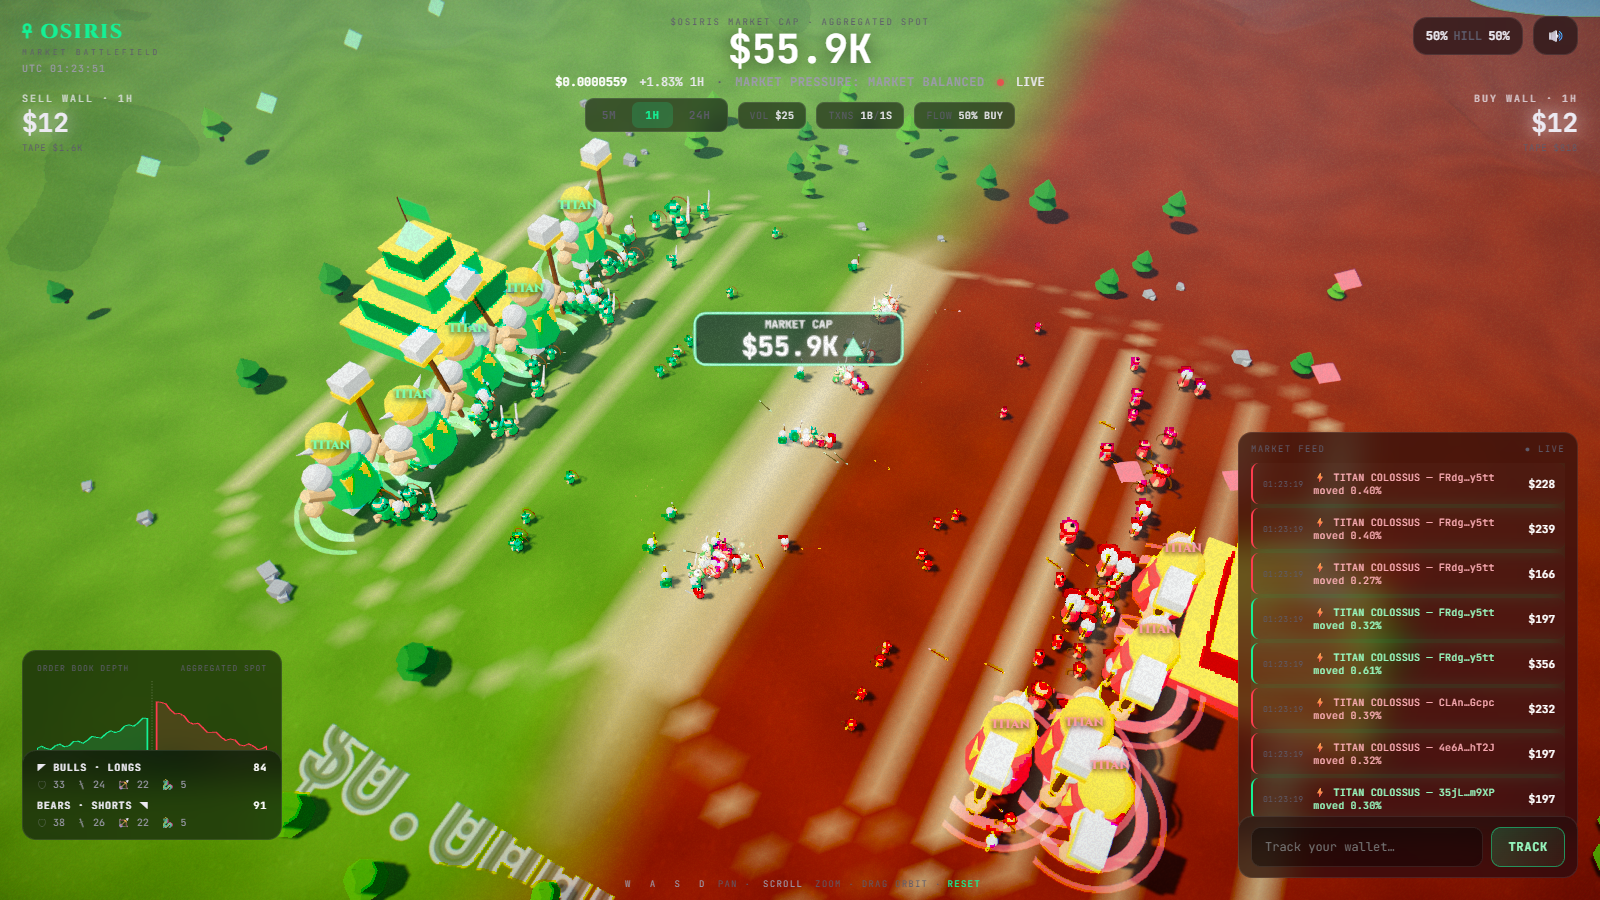
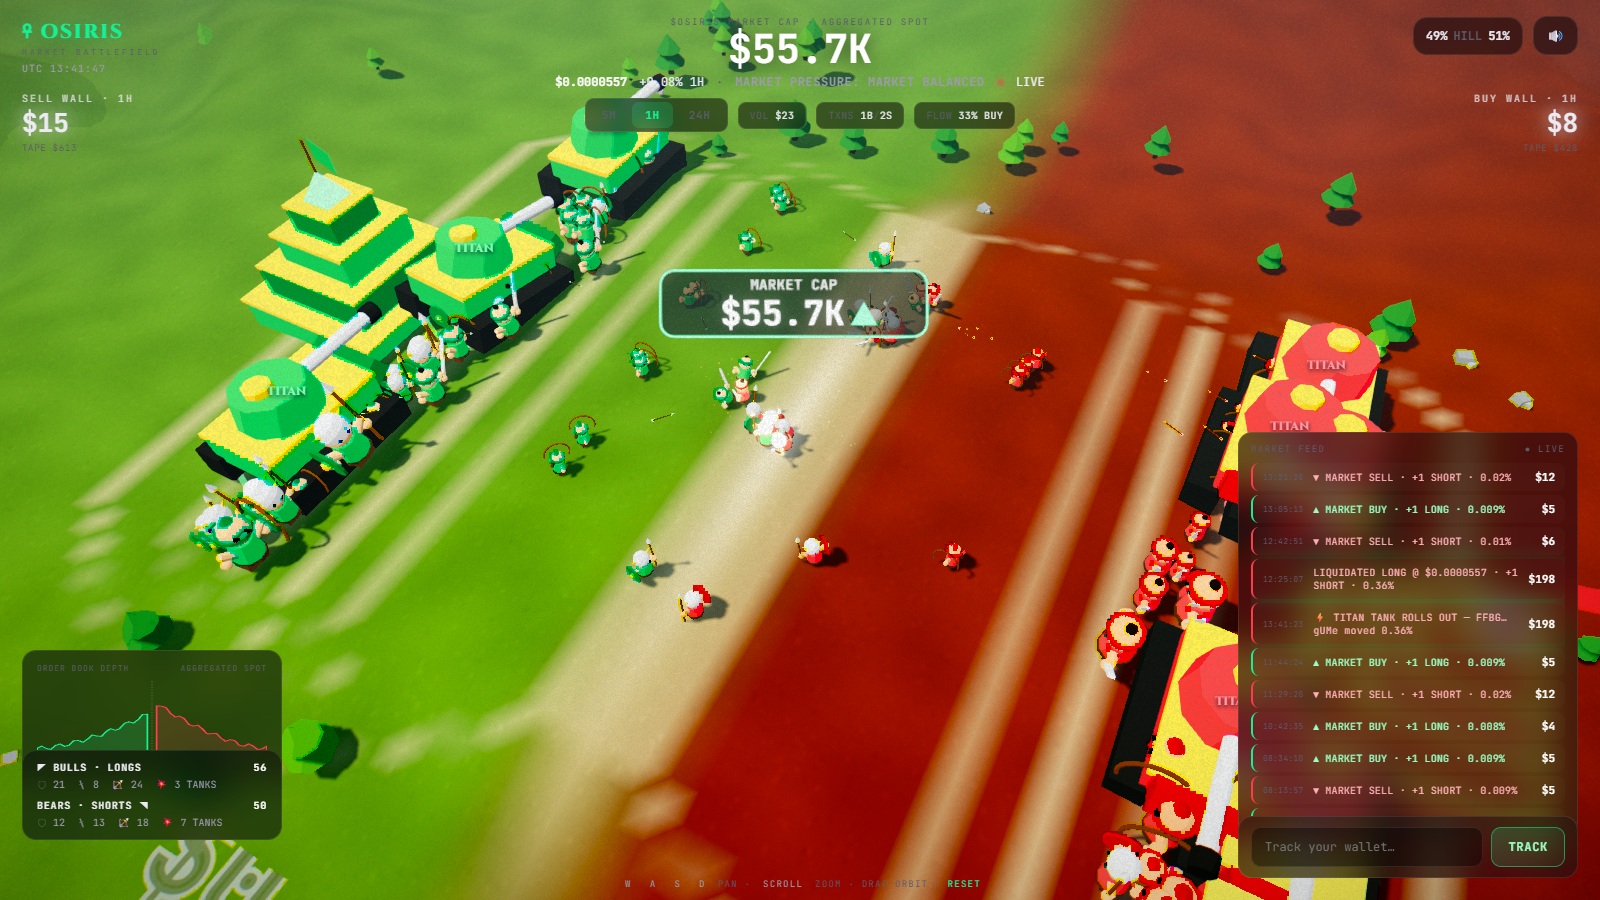
Bigger-scale war: tanks for whales, ranged firefights, persistent casualties, closer camera
- Whale (TITAN/GOD) units are now toon TANKS: hull/treads/turret/barrel, firing
  arcing SHELLS with muzzle flash, explosion bursts, scorch decals, splash damage
  (up to 5 units), and screenshake
- Units ~65% larger (UNIT_SCALE 1.15→1.9) with fewer of them (garrison halved,
  reinforcement cap lowered) — big readable toy-army fighting instead of ant swarms
- Ranged-heavy class mix (~46% archers): the war reads as volleys traded across
  the road with melee charges punching through
- Casualties persist: units fall over, lie on the field ~8s, then fade away
- Closer default camera (lower pitch, 0.8 zoom); TANK naming in feed + force panels

Claude-Session: https://claude.ai/code/session_015tQMzkiqweDMCFznisx5mN

diff --git a/src/lib/battle/engine.ts b/src/lib/battle/engine.ts
@@ -47,7 +47,7 @@ type Unit = {
 };
 
 // per-class attack pacing (seconds between strikes)
-const ATK_CD: Record<Cls, number> = { spear: 1.05, ronin: 0.62, archer: 1.4, colossus: 2.0 };
+const ATK_CD: Record<Cls, number> = { spear: 1.05, ronin: 0.62, archer: 1.4, colossus: 2.8 };
 const KILL_TEMPO = 2.3; // global lethality multiplier (per-hit = dmg * cd * tempo)
 const ACQUIRE_R = 14; // how far a melee unit will lock onto an enemy
 
@@ -57,14 +57,14 @@ const CAP = FRONT_MAX + 16;
 const ARENA_Z = 26;
 const MELEE = 4.2;
 const SPEED = 11;
-const UNIT_SCALE = 1.15;
+const UNIT_SCALE = 1.9;
 const CLASSES: Cls[] = ['spear', 'ronin', 'archer', 'colossus'];
 
 const CLASS_STATS: Record<Cls, { hpMul: number; dmgMul: number; scaleMul: number; ranged: boolean; standoff: number; speedMul: number }> = {
 	spear: { hpMul: 1.0, dmgMul: 1.0, scaleMul: 1.0, ranged: false, standoff: 0.8, speedMul: 1.0 },
 	ronin: { hpMul: 0.78, dmgMul: 1.9, scaleMul: 0.95, ranged: false, standoff: 0.6, speedMul: 1.4 },
-	archer: { hpMul: 0.55, dmgMul: 1.7, scaleMul: 0.9, ranged: true, standoff: 15, speedMul: 1.05 },
-	colossus: { hpMul: 1.5, dmgMul: 1.4, scaleMul: 1.35, ranged: false, standoff: 0.9, speedMul: 0.8 }
+	archer: { hpMul: 0.55, dmgMul: 1.7, scaleMul: 0.9, ranged: true, standoff: 13, speedMul: 1.05 },
+	colossus: { hpMul: 2.4, dmgMul: 2.4, scaleMul: 1.0, ranged: true, standoff: 10, speedMul: 0.6 }
 };
 
 const GOLD = new THREE.Color('#2fd66b');
@@ -82,8 +82,9 @@ function hash01(s: string): number {
 }
 function pickClass(tier: string, seed: number): Cls {
 	if (tier === 'TITAN' || tier === 'GOD') return 'colossus';
-	if (seed < 0.42) return 'spear';
-	if (seed < 0.70) return 'archer';
+	// ranged-heavy mix: most of the war is volleys traded across the line
+	if (seed < 0.3) return 'spear';
+	if (seed < 0.76) return 'archer';
 	return 'ronin';
 }
 function easeOutBack(t: number): number { const c = 1.70158, c3 = c + 1; return 1 + c3 * Math.pow(t - 1, 3) + c * Math.pow(t - 1, 2); }
@@ -190,31 +191,27 @@ function buildArcher(p: Palette): THREE.BufferGeometry {
 }
 
 function buildColossus(p: Palette): THREE.BufferGeometry {
+	// WHALE ARMOR: a chunky toon tank — hull, treads, turret, barrel
 	const parts: THREE.BufferGeometry[] = [];
-	// giant boots + legs
-	const b1 = paint(new THREE.BoxGeometry(0.4, 0.32, 0.5), p.metal); b1.translate(-0.28, 0.16, 0.02);
-	const b2 = paint(new THREE.BoxGeometry(0.4, 0.32, 0.5), p.metal); b2.translate(0.28, 0.16, 0.02);
-	// massive torso
-	const body = paint(new THREE.CylinderGeometry(0.52, 0.66, 1.1, 10), p.cloth); body.translate(0, 0.95, 0);
-	const plate = paint(new THREE.BoxGeometry(0.72, 0.55, 0.2), p.accent); plate.translate(0, 1.1, 0.42);
-	// huge pauldrons
-	const s1 = paint(new THREE.SphereGeometry(0.34, 10, 8), p.metal); s1.translate(-0.62, 1.5, 0);
-	const s2 = paint(new THREE.SphereGeometry(0.34, 10, 8), p.metal); s2.translate(0.62, 1.5, 0);
-	// arms + fists
-	const aR = paint(new THREE.CylinderGeometry(0.16, 0.19, 0.7, 8), p.skin); aR.rotateZ(-0.85); aR.translate(0.85, 1.15, 0.06);
-	const fR = paint(new THREE.SphereGeometry(0.22, 8, 6), p.skin); fR.translate(1.1, 0.92, 0.1);
-	const aL = paint(new THREE.CylinderGeometry(0.16, 0.19, 0.7, 8), p.skin); aL.rotateZ(0.85); aL.translate(-0.85, 1.15, 0.06);
-	const fL = paint(new THREE.SphereGeometry(0.22, 8, 6), p.skin); fL.translate(-1.1, 0.92, 0.1);
-	// big head + horned crown helm
-	const head = paint(new THREE.SphereGeometry(0.46, 12, 10), p.skin); head.translate(0, 2.0, 0.02);
-	const helm = paint(new THREE.SphereGeometry(0.5, 12, 8, 0, Math.PI * 2, 0, Math.PI * 0.5), p.accent); helm.translate(0, 2.12, 0.02);
-	const h1 = paint(new THREE.ConeGeometry(0.12, 0.55, 6), p.metal); h1.rotateZ(1.05); h1.translate(-0.55, 2.35, 0.02);
-	const h2 = paint(new THREE.ConeGeometry(0.12, 0.55, 6), p.metal); h2.rotateZ(-1.05); h2.translate(0.55, 2.35, 0.02);
-	// colossal warhammer
-	const haft = paint(new THREE.CylinderGeometry(0.07, 0.07, 2.9, 8), p.wood); haft.translate(1.1, 1.8, 0.1);
-	const hh = paint(new THREE.BoxGeometry(0.72, 0.5, 0.5), p.metal); hh.translate(1.1, 3.2, 0.1);
-	const hb = paint(new THREE.BoxGeometry(0.78, 0.14, 0.56), p.accent); hb.translate(1.1, 3.0, 0.1);
-	parts.push(b1, b2, body, plate, s1, s2, aR, fR, aL, fL, head, helm, h1, h2, haft, hh, hb);
+	// treads
+	const t1 = paint(new THREE.BoxGeometry(2.5, 0.55, 0.55), '#2c2c28'); t1.translate(0, 0.32, -0.85);
+	const t2 = paint(new THREE.BoxGeometry(2.5, 0.55, 0.55), '#2c2c28'); t2.translate(0, 0.32, 0.85);
+	// wheels hint
+	for (let i = -2; i <= 2; i++) {
+		const w1 = paint(new THREE.CylinderGeometry(0.22, 0.22, 0.12, 8), '#4a4a42'); w1.rotateX(Math.PI / 2); w1.translate(i * 0.5, 0.3, -0.85);
+		const w2 = paint(new THREE.CylinderGeometry(0.22, 0.22, 0.12, 8), '#4a4a42'); w2.rotateX(Math.PI / 2); w2.translate(i * 0.5, 0.3, 0.85);
+		parts.push(w1, w2);
+	}
+	// hull
+	const hull = paint(new THREE.BoxGeometry(2.3, 0.62, 1.5), p.cloth); hull.translate(0, 0.78, 0);
+	const glacis = paint(new THREE.BoxGeometry(0.7, 0.4, 1.3), p.clothDark); glacis.rotateZ(0.5); glacis.translate(1.15, 0.85, 0);
+	const trim = paint(new THREE.BoxGeometry(2.35, 0.1, 1.55), p.accent); trim.translate(0, 1.06, 0);
+	// turret + barrel (points +x)
+	const turret = paint(new THREE.CylinderGeometry(0.62, 0.72, 0.55, 10), p.cloth); turret.translate(-0.15, 1.4, 0);
+	const hatch = paint(new THREE.CylinderGeometry(0.24, 0.24, 0.14, 8), p.accent); hatch.translate(-0.3, 1.72, 0);
+	const barrel = paint(new THREE.CylinderGeometry(0.11, 0.13, 1.9, 8), p.metal); barrel.rotateZ(Math.PI / 2); barrel.translate(1.15, 1.42, 0);
+	const muzzle = paint(new THREE.CylinderGeometry(0.17, 0.17, 0.25, 8), '#2c2c28'); muzzle.rotateZ(Math.PI / 2); muzzle.translate(2.05, 1.42, 0);
+	parts.push(t1, t2, hull, glacis, trim, turret, hatch, barrel, muzzle);
 	const m = mergeGeometries(parts, false)!; m.computeVertexNormals(); return m;
 }
 
@@ -263,6 +260,10 @@ export class Battle {
 	private PROJ = 320;
 	private proj!: { active: boolean; x: number; y: number; z: number; vx: number; vy: number; vz: number; dmg: number; team: Team; life: number }[];
 	private projHead = 0;
+	private shellMesh!: THREE.InstancedMesh;
+	private SHELL_N = 90;
+	private shells!: { active: boolean; x: number; y: number; z: number; vx: number; vy: number; vz: number; dmg: number; team: Team; life: number }[];
+	private shellHead = 0;
 
 	private raf = 0; private last = 0; private time = 0;
 	private focus = false; private trackWallet: string | null = null;
@@ -276,7 +277,7 @@ export class Battle {
 	private totalKills = 0; private biggestWhaleUsd = 0; private biggestWhaleWallet = '';
 	private lastGarrison = { bulls: 60, bears: 60 };
 
-	private camYaw = 0.5; private camPitch = 0.62; private camZoom = 1;
+	private camYaw = 0.5; private camPitch = 0.52; private camZoom = 0.8;
 	private panX = 0; private panZ = 0; private keys = new Set<string>();
 	private manualUntil = 0; private dragging = false; private lastPtr = { x: 0, y: 0 };
 
@@ -562,6 +563,15 @@ export class Battle {
 		for (let i = 0; i < this.PROJ; i++) { this.arrowMesh.setMatrixAt(i, this.dummy.matrix); this.arrowMesh.setColorAt(i, this.tmpColor.set(0xffffff)); }
 		this.scene.add(this.arrowMesh);
 		this.proj = Array.from({ length: this.PROJ }, () => ({ active: false, x: 0, y: 0, z: 0, vx: 0, vy: 0, vz: 0, dmg: 0, team: 'bull' as Team, life: 0 }));
+
+		// tank shells — fat dark rounds with a bright tip
+		const shellGeo = paint(new THREE.CapsuleGeometry(0.16, 0.34, 3, 8), '#26221c');
+		this.shellMesh = new THREE.InstancedMesh(shellGeo, new THREE.MeshBasicMaterial({ vertexColors: true }), this.SHELL_N);
+		this.shellMesh.instanceMatrix.setUsage(THREE.DynamicDrawUsage); this.shellMesh.count = this.SHELL_N; this.shellMesh.frustumCulled = false;
+		this.dummy.scale.setScalar(0); this.dummy.updateMatrix();
+		for (let i = 0; i < this.SHELL_N; i++) { this.shellMesh.setMatrixAt(i, this.dummy.matrix); this.shellMesh.setColorAt(i, this.tmpColor.set(0xffffff)); }
+		this.scene.add(this.shellMesh);
+		this.shells = Array.from({ length: this.SHELL_N }, () => ({ active: false, x: 0, y: 0, z: 0, vx: 0, vy: 0, vz: 0, dmg: 0, team: 'bull' as Team, life: 0 }));
 	}
 
 	private buildSparks() {
@@ -645,7 +655,7 @@ export class Battle {
 	setReinforceRates(b: number, s: number) { this.reinB = b; this.reinS = s; }
 	setTrackWallet(w: string | null) { this.trackWallet = w ? w.trim() : null; for (const u of this.units) u.tracked = !!this.trackWallet && u.wallet === this.trackWallet; }
 	setFocus(f: boolean) { this.focus = f; }
-	resetCamera() { this.manualUntil = 0; this.camPitch = 0.62; this.camZoom = 1; this.panX = 0; this.panZ = 0; }
+	resetCamera() { this.manualUntil = 0; this.camPitch = 0.52; this.camZoom = 0.8; this.panX = 0; this.panZ = 0; }
 
 	spawnGarrison(bulls: number, bears: number) {
 		this.lastGarrison = { bulls, bears };
@@ -714,6 +724,53 @@ export class Battle {
 
 	// ---------- projectiles ----------
 
+	private fireShellAt(u: Unit, t: Unit) {
+		const p = this.shells[this.shellHead]; this.shellHead = (this.shellHead + 1) % this.SHELL_N;
+		const sx = u.x, sy = hillY(u.x) + 1.42 * u.scale * UNIT_SCALE * 0.5, sz = u.z;
+		const tx = t.x + (Math.random() - 0.5) * 2, tz = t.z + (Math.random() - 0.5) * 2, ty = hillY(tx) + 0.5;
+		const dist = Math.hypot(tx - sx, tz - sz);
+		const T = THREE.MathUtils.clamp(dist / 34, 0.35, 0.8), g = 14;
+		p.active = true; p.x = sx; p.y = sy; p.z = sz;
+		p.dmg = u.dmg * ATK_CD.colossus * KILL_TEMPO; p.team = u.team; p.life = T + 0.2;
+		p.vx = (tx - sx) / T; p.vz = (tz - sz) / T; p.vy = (ty - sy + 0.5 * g * T * T) / T;
+		// muzzle flash
+		this.spawnBurst(sx + (tx - sx) / dist * 2.2, sy, sz + (tz - sz) / dist * 2.2, new THREE.Color(0xffe9a0), 8);
+		this.shake = Math.min(1.2, this.shake + 0.06);
+	}
+
+	private updateShells(dt: number) {
+		const g = 14; let dirty = false;
+		for (let i = 0; i < this.SHELL_N; i++) {
+			const p = this.shells[i];
+			if (!p.active) continue;
+			p.vy -= g * dt; p.x += p.vx * dt; p.y += p.vy * dt; p.z += p.vz * dt; p.life -= dt;
+			if (p.y <= hillY(p.x) + 0.3 || p.life <= 0) {
+				p.active = false;
+				// EXPLOSION: big flash + splash damage
+				const col = p.team === 'bull' ? GOLD : CRIMSON;
+				this.spawnBurst(p.x, hillY(p.x) + 0.8, p.z, new THREE.Color(0xffd080), 16);
+				this.spawnBurst(p.x, hillY(p.x) + 0.8, p.z, col, 14);
+				this.addDecal(p.x, p.z, 1.5);
+				this.shake = Math.min(1.4, this.shake + 0.18);
+				let hits = 0;
+				for (const e of this.units) {
+					if (e.team === p.team || e.dying > 0 || e.hp <= 0) continue;
+					const dx = e.x - p.x, dz = e.z - p.z, d2 = dx * dx + dz * dz;
+					if (d2 < 3.2 * 3.2) { e.hp -= p.dmg * (d2 < 1.6 ? 1 : 0.55); e.struck = 0.16; if (e.hp <= 0) this.kill(e, []); if (++hits >= 5) break; }
+				}
+				this.dummy.scale.setScalar(0); this.dummy.updateMatrix(); this.shellMesh.setMatrixAt(i, this.dummy.matrix); dirty = true;
+				continue;
+			}
+			this.vTmp.set(p.vx, p.vy, p.vz).normalize();
+			this.q.setFromUnitVectors(this.upV, this.vTmp);
+			this.dummy.position.set(p.x, p.y, p.z); this.dummy.quaternion.copy(this.q); this.dummy.scale.setScalar(1.4); this.dummy.updateMatrix();
+			this.shellMesh.setMatrixAt(i, this.dummy.matrix);
+			this.shellMesh.setColorAt(i, this.tmpColor.copy(p.team === 'bull' ? GOLD : CRIMSON).lerp(new THREE.Color(0xffffff), 0.2));
+			dirty = true;
+		}
+		if (dirty) { this.shellMesh.instanceMatrix.needsUpdate = true; if (this.shellMesh.instanceColor) this.shellMesh.instanceColor.needsUpdate = true; }
+	}
+
 	private fireArrowAt(u: Unit, t: Unit) {
 		const p = this.proj[this.projHead]; this.projHead = (this.projHead + 1) % this.PROJ;
 		const sx = u.x, sy = hillY(u.x) + 1.4 * u.scale * UNIT_SCALE, sz = u.z;
@@ -765,6 +822,7 @@ export class Battle {
 
 		this.step(simDt);
 		this.updateArrows(simDt);
+		this.updateShells(simDt);
 		this.updateParticles(simDt);
 		this.updateDecals(simDt);
 		this.render(dt);
@@ -836,7 +894,11 @@ export class Battle {
 				u.x += Math.sign(tx - u.x) * Math.min(Math.abs(tx - u.x), u.speed * dt);
 				if (u.target) {
 					desiredFace = Math.PI / 2 + Math.atan2(-(u.target.z - u.z), u.target.x - u.x);
-					if (u.atkCd <= 0) { this.fireArrowAt(u, u.target); u.atkCd = ATK_CD.archer + Math.random() * 0.7; u.strike = 0.3; }
+					if (u.atkCd <= 0) {
+						if (u.cls === 'colossus') { this.fireShellAt(u, u.target); u.atkCd = ATK_CD.colossus + Math.random() * 0.9; }
+						else { this.fireArrowAt(u, u.target); u.atkCd = ATK_CD.archer + Math.random() * 0.7; }
+						u.strike = 0.3;
+					}
 				}
 			} else if (u.target) {
 				const t = u.target;
@@ -934,7 +996,7 @@ export class Battle {
 	}
 
 	private kill(u: Unit, killers: Unit[]) {
-		u.dying = 0.6;
+		u.dying = 8; // fall, lie as a casualty on the field, then fade
 		this.spawnBurst(u.x, hillY(u.x) + 1.2, u.z, u.team === 'bull' ? GOLD : CRIMSON, u.legend ? 40 : 9);
 		this.spawnSoul(u.x, hillY(u.x) + 1.6, u.z, u.team === 'bull' ? GOLD : CRIMSON);
 		this.addDecal(u.x, u.z, u.scale);
@@ -955,10 +1017,14 @@ export class Battle {
 			const pop = u.age < 0.45 ? easeOutBack(Math.min(1, u.age / 0.45)) : 1;
 			const s = u.scale * UNIT_SCALE * Math.max(0.01, pop);
 			if (u.dying > 0) {
-				const t = u.dying / 0.6;
-				d.position.set(u.x, gy - (1 - t) * 0.9, u.z);
-				d.scale.set(s * (0.7 + t * 0.3), s * t, s * (0.7 + t * 0.3));
-				d.rotation.set((1 - t) * -1.5, u.face, (1 - t) * 0.4);
+				// fall over (0.45s) → lie as a casualty → sink away in the last second
+				const elapsed = 8 - u.dying;
+				const fall = Math.min(1, elapsed / 0.45);
+				const fade = u.dying < 1 ? u.dying : 1;
+				const flop = (u.idx % 2 === 0 ? 1 : -1) * fall * (Math.PI / 2) * 0.94;
+				d.position.set(u.x, gy + (1 - fall) * 0.2 - (1 - fade) * 0.55, u.z);
+				d.scale.setScalar(s * (0.55 + fade * 0.45));
+				d.rotation.set(0, u.face, flop);
 			} else if (u.ranged) {
 				const hop = Math.abs(Math.sin(u.bob * 0.6)) * 0.06 * u.scale;
 				// draw-and-loose: lean back on strike, snap forward on release

diff --git a/src/routes/+page.svelte b/src/routes/+page.svelte
@@ -59,7 +59,7 @@
 		if (token) battle?.setMarketCap(fmtUsd(token.marketCap), win.chg);
 		// reinforcement flow scaled from the window's real txn rate
 		const scale = 30; // battle-time amplification
-		const rate = (n: number) => Math.min(1.1, Math.max(0.04, (n / TF_SECS[tf]) * scale));
+		const rate = (n: number) => Math.min(0.55, Math.max(0.03, (n / TF_SECS[tf]) * scale));
 		battle?.setReinforceRates(rate(win.buys), rate(win.sells));
 	}
 	function setTf(next: TF) { tf = next; applyTf(); }
@@ -165,15 +165,15 @@
 			battle.onOverlay = (o) => (overlay = o);
 			battle.onEvent = (e: BattleEvent) => {
 				if (e.type === 'legend') {
-					const c = e.cls.toUpperCase();
-					pushFeed(`⚡ ${e.tier} ${c} — ${mask(e.wallet)} moved ${pctStr(e.pct)}`, e.team === 'bull' ? 'buy' : 'sell', fmtUsd(e.usd), true);
+					const c = e.cls === 'colossus' ? 'TANK' : e.cls.toUpperCase();
+					pushFeed(`⚡ ${e.tier} ${c} ROLLS OUT — ${mask(e.wallet)} moved ${pctStr(e.pct)}`, e.team === 'bull' ? 'buy' : 'sell', fmtUsd(e.usd), true);
 					audio?.horn(!!e.god); if (e.god) doFlash();
 				}
 			};
 			battle.start();
 
 			await loadToken();
-			const g = (n: number) => Math.max(20, Math.min(150, Math.round(n)));
+			const g = (n: number) => Math.max(14, Math.min(64, Math.round(n * 0.5)));
 			battle.spawnGarrison(g(token?.buys24h ?? 80), g(token?.sells24h ?? 80));
 			await loadTrades(true);
 			ready = true;
@@ -297,11 +297,11 @@
 <div class="forces glass">
 	<div class="force">
 		<div class="force-head green mono">◤ BULLS · LONGS <span class="force-n">{stats.bulls}</span></div>
-		<div class="force-comp mono"><span>🛡 {stats.bullComp.spear}</span><span>🗡 {stats.bullComp.ronin}</span><span>🏹 {stats.bullComp.archer}</span><span>🐉 {stats.bullComp.colossus}</span></div>
+		<div class="force-comp mono"><span>🛡 {stats.bullComp.spear}</span><span>🗡 {stats.bullComp.ronin}</span><span>🏹 {stats.bullComp.archer}</span><span>💥 {stats.bullComp.colossus} TANKS</span></div>
 	</div>
 	<div class="force">
 		<div class="force-head red mono">BEARS · SHORTS ◥ <span class="force-n">{stats.bears}</span></div>
-		<div class="force-comp mono"><span>🛡 {stats.bearComp.spear}</span><span>🗡 {stats.bearComp.ronin}</span><span>🏹 {stats.bearComp.archer}</span><span>🐉 {stats.bearComp.colossus}</span></div>
+		<div class="force-comp mono"><span>🛡 {stats.bearComp.spear}</span><span>🗡 {stats.bearComp.ronin}</span><span>🏹 {stats.bearComp.archer}</span><span>💥 {stats.bearComp.colossus} TANKS</span></div>
 	</div>
 </div>
 